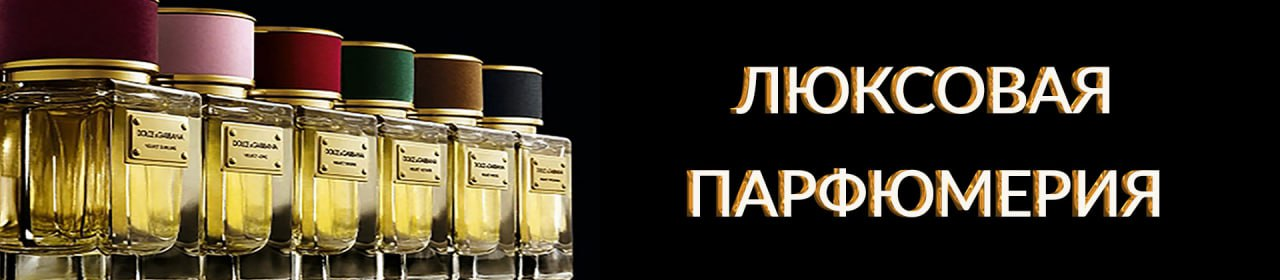
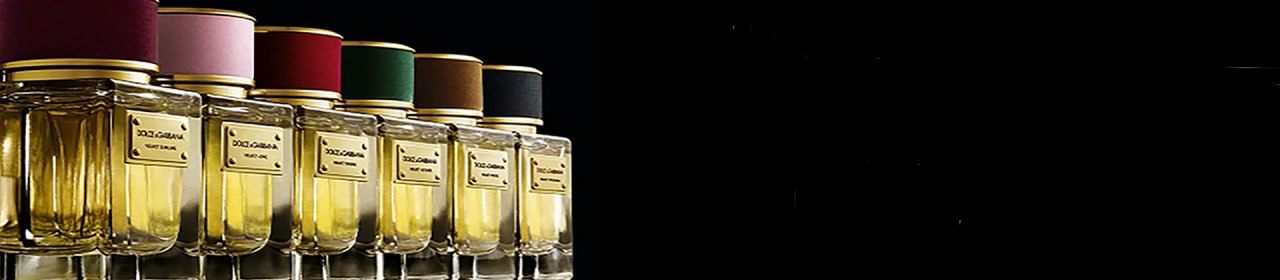
Добавила новое фото

Changed region(s): [[0.5312, 0.6, 0.9062, 0.8], [0.5625, 0.2286, 0.875, 0.4286]]

diff --git a/index.html b/index.html
@@ -124,7 +124,7 @@
             </ul>
         </nav> 
     </header>
-    <main class="main-about-us">
+    <main class="main-about-us main-about-us--display">
         <section class="main-about-us__section">
             <img class="main-about-us__img main-about-us__img-d" src="./img/photo_2023-01-20_16-25-10.jpg" alt="Парфюмерия" width="100%" height="250">
             <p class="main-about-us__p main-about-us__p-d">

diff --git a/style.css b/style.css
@@ -617,7 +617,9 @@ margin-top: 38%;
 }
 }
 @media(min-width:1200px){
-
+.main-about-us--display{
+  display: none;
+}
 .display-none{
   display: none;
 }
